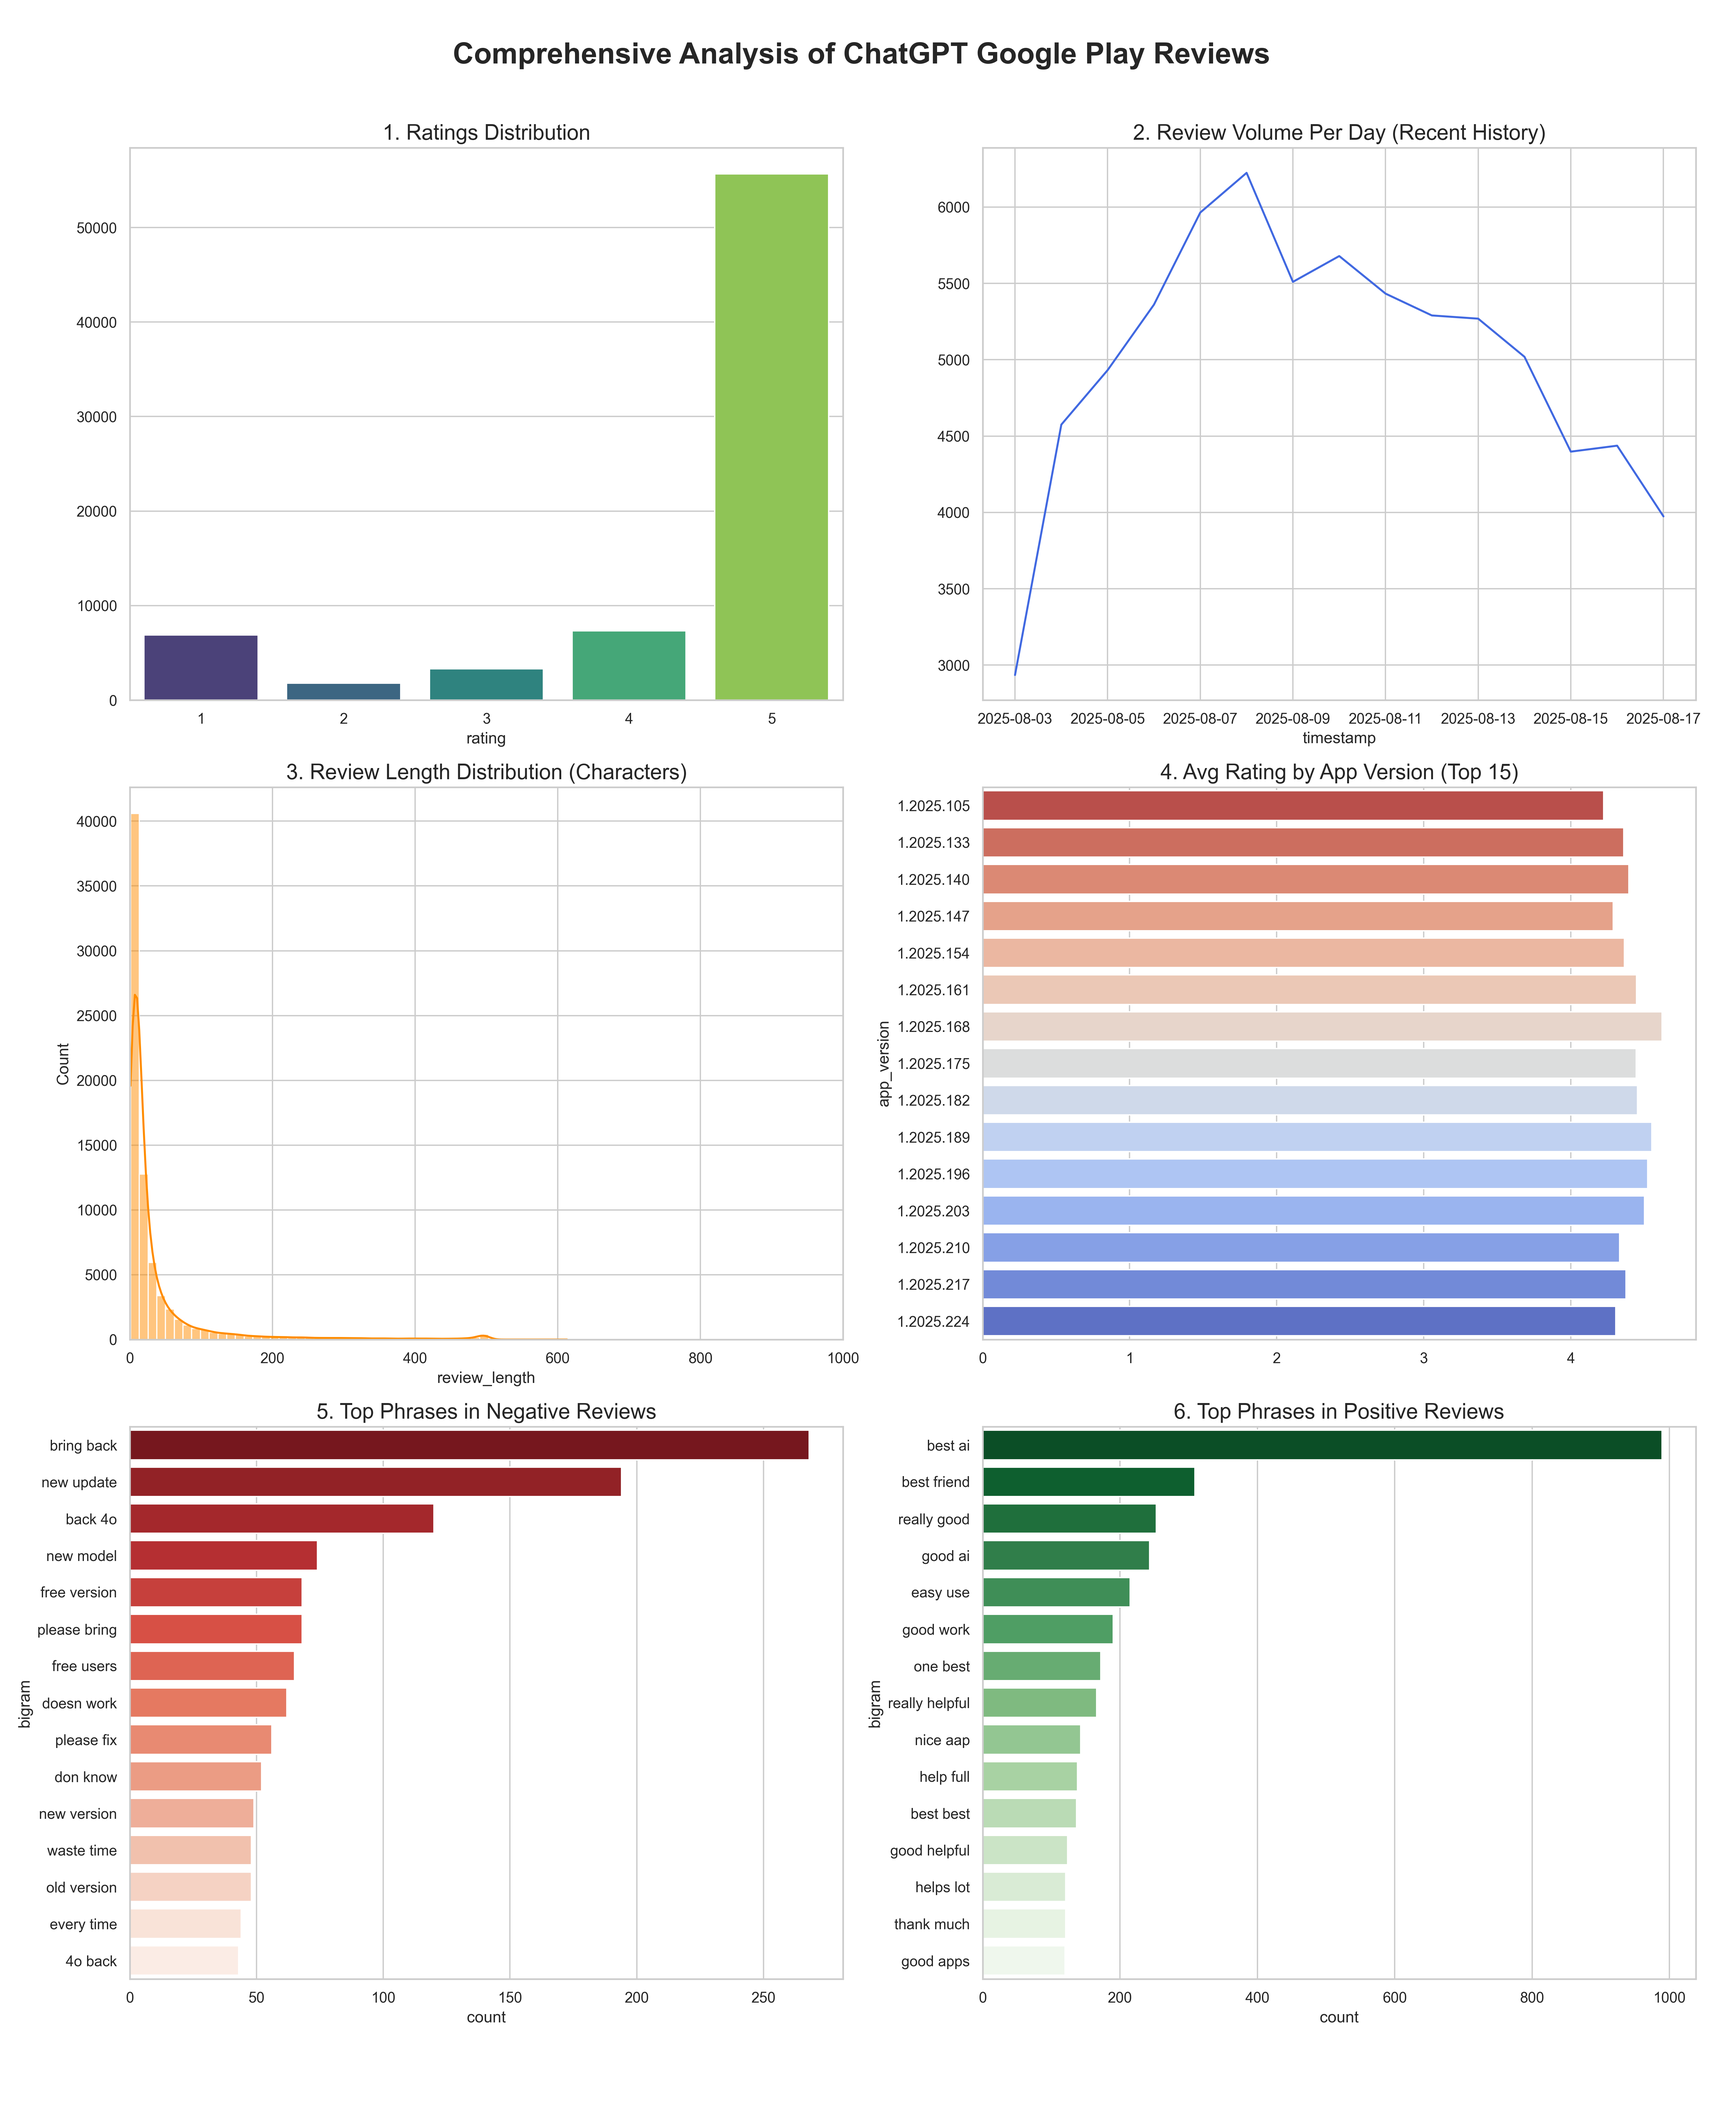
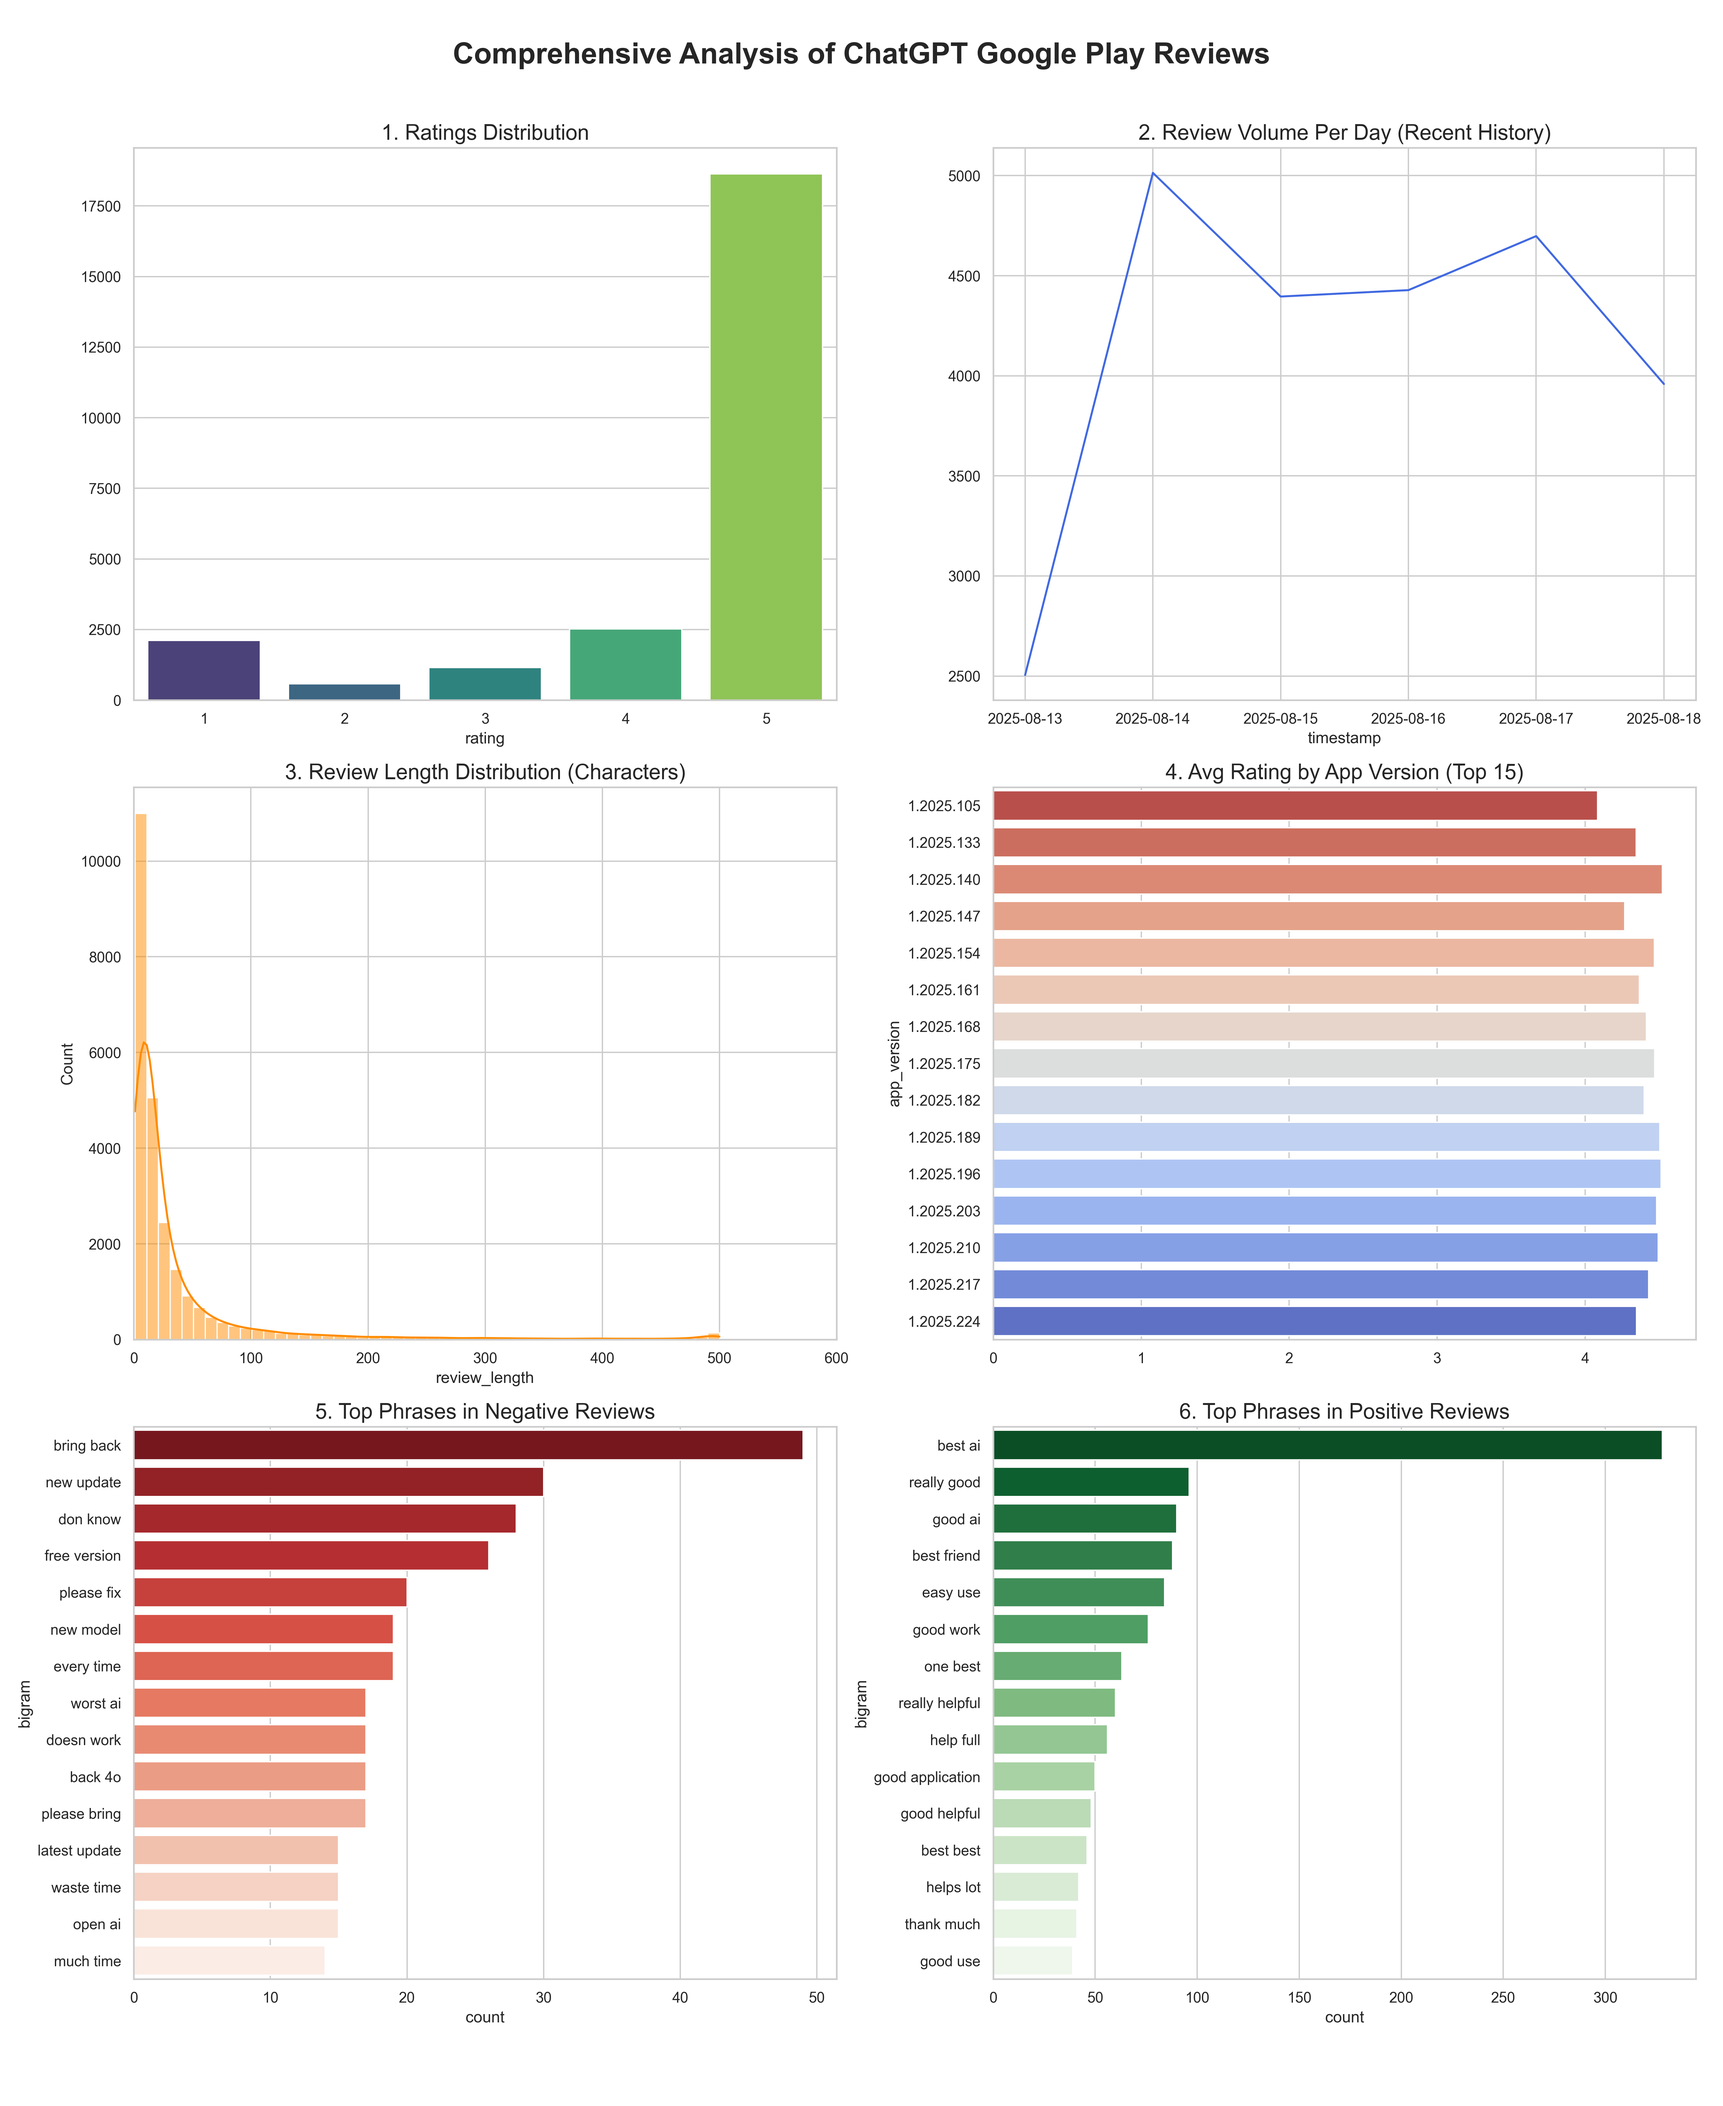
Analyze_2

diff --git a/Chatgpt_user_review_analysis_report.py b/Chatgpt_user_review_analysis_report.py
@@ -17,7 +17,7 @@ from wordcloud import STOPWORDS
 
 # --- 2. CONFIGURATION ---
 APP_ID = 'com.openai.chatgpt'
-REVIEW_COUNT = 75000
+REVIEW_COUNT = 25000
 
 print("--- Efficient Review Analysis (Corrected Graph) ---")
 print(f"Target App: {APP_ID}")
@@ -106,7 +106,7 @@ axes[0, 1].set_title('2. Review Volume Per Day (Recent History)', fontsize=16)
 # Plot 3: Review Length Distribution (No changes)
 sns.histplot(df['review_length'], bins=50, kde=True, ax=axes[1, 0], color='darkorange')
 axes[1, 0].set_title('3. Review Length Distribution (Characters)', fontsize=16)
-axes[1, 0].set_xlim(0, 1000)
+axes[1, 0].set_xlim(0, 600)
 
 # Plot 4: Average Rating by App Version (No changes)
 if 'app_version' in df.columns and not df['app_version'].isnull().all():
